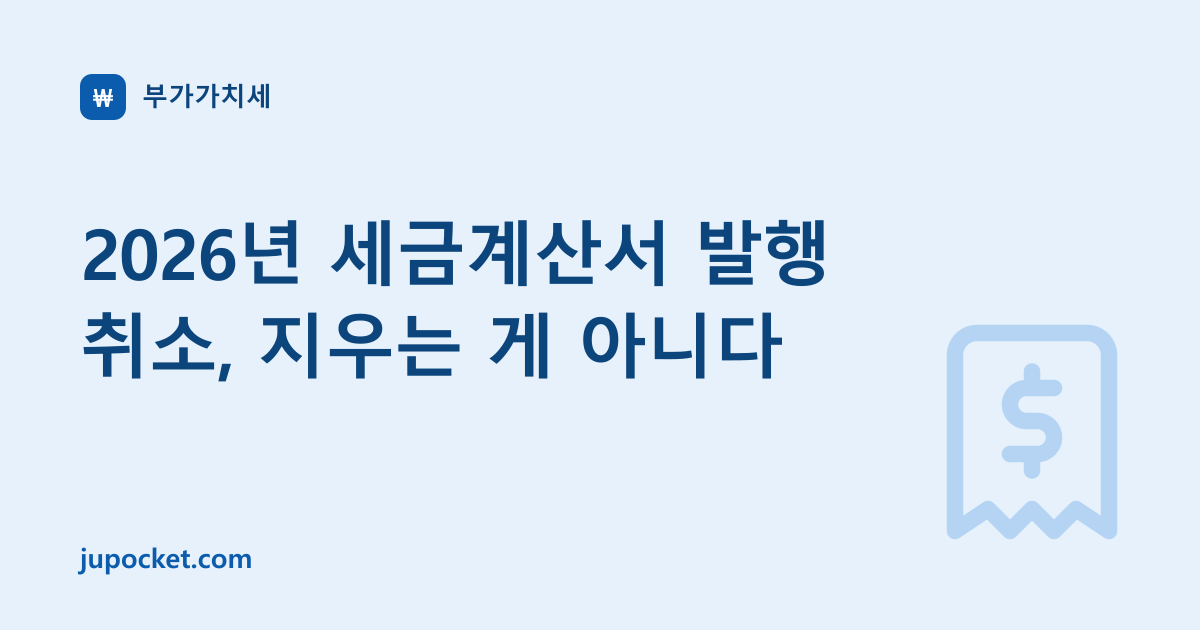
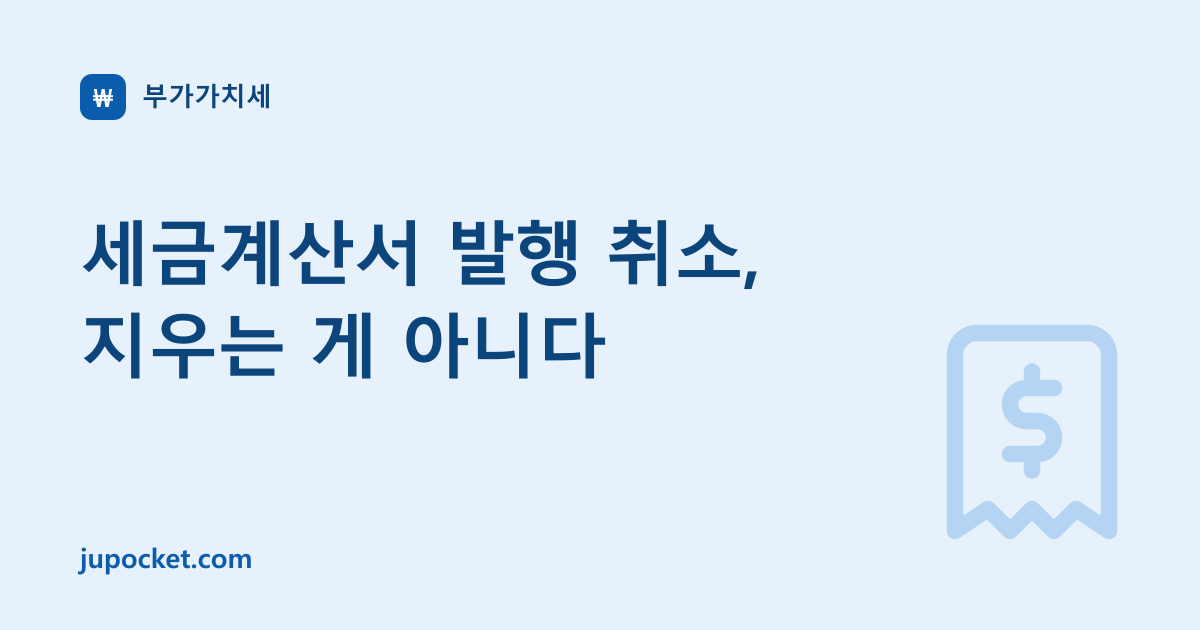
fix: 45~47 에서 조문을 넘어선 문장을 걷어냈다
라이브 뒤 다시 읽으며 내가 보탠 추론을 찾아 지웠다. 기준은 하나다 —
인용한 원문 문장이 그 말을 하고 있는가.

46번

- "해제와 해지를 바꿔 적으면 과세기간이 틀어진다" 가 틀렸다. 둘 다 작성일이
  사유 발생일이라 바뀌는 것은 과세기간이 아니라 금액이다(해제는 전액 음수,
  해지는 차액). 소제목을 금액 차이로 바꾸고, 작성일 이야기를 별도 절로
  뺐다. 예시도 1기 안에서 끝나던 3월→5월 대신 6월 거래를 8월에 해제하는
  것으로 바꿨다 — 그래야 2기로 넘어간다
- "취소 기한이 있는 사유는 하나뿐" → "조문에 기한이 적힌 사유는 하나뿐".
  제70조가 1~3호에 작성일만 정해 둔 것이지 기한이 없다고 읽을 근거는 없다.
  확인 못 했다고 적고 notVerified 에 남겼다
- 착오와 착오 외의 구분을 내가 정의하고 있었다. 조문에 정의가 없어 지웠다
- 금액이 하나도 없는 절차 글이라 year: 2026 을 뗐다

45번

- 시행령 제73조 ③과 ④를 뭉쳐 놨다. ③(소매·음식점·숙박·전세버스)은 요구하면
  발급하고, ④(미용·욕탕, 전세버스 외 여객운송, 입장권)는 감가상각자산이나
  본업 외 역무일 때만이다. 둘로 갈랐다. listNote 가 빼놨다고 한 호를 목록이
  포함하고 있던 것도 맞췄다
- "직접 계산할 필요는 없습니다" 가 과했다. 제73조의2 는 세무서장에게 지운
  의무이고, 통지가 안 오면 제36조가 어떻게 되는지는 조문에 없다

47번

- "면세사업자에게 세금계산서를 달라 해도 안 나오는 것도 같은 이유" 삭제.
  제163조 제6항이 말하는 바가 아니고 부가세법 제32조 제1항을 읽지 않았다
- "소득이 없어도" → 원문은 종합소득산출세액이다
- 수입 재화는 세관장이 발급하는 것이지 안 끊는 경우가 아니다. 절 제목과
  설명을 고쳤다
- 제81조의10 은 소득세법이라 개인사업자 이야기다. 법인은 법인세법 제121조
  계통이고 읽지 않았다고 밝혔다
- "이 글에 없는 것" 이 notVerified 를 그대로 찍어 반말 메모가 존댓말 글에
  섞여 나왔다. 손으로 썼다

Changed region(s): [[0.0617, 0.3317, 0.7092, 0.4524], [0.0617, 0.4825, 0.6475, 0.6032]]

diff --git a/src/lib/__tests__/tax-invoice-cancel.test.ts b/src/lib/__tests__/tax-invoice-cancel.test.ts
@@ -11,9 +11,10 @@ const PAGE = built ? readFileSync(DIST, "utf-8") : "";
 /**
  * 세금계산서 발행 취소(46번) — 시행령 제70조.
  *
- * 이 글이 틀릴 수 있는 자리는 "작성일" 이다. 작성일이 어느 과세기간에
- * 들어가는지를 그것이 정하므로, 2호(해제)와 3호(해지)를 바꿔 적으면
- * 신고가 흔들린다.
+ * 이 글이 틀릴 수 있는 자리는 "작성일" 이다. 1~3호는 사유가 생긴 날을
+ * 적으므로, 처음 세금계산서 작성일로 적으면 과세기간이 달라진다.
+ * 2호(해제)와 3호(해지)를 바꿔 적으면 달라지는 것은 과세기간이 아니라
+ * 금액이다 — 처음에 반대로 썼다가 되돌렸다.
  */
 describe("세금계산서 발행 취소", () => {
   it("사유는 아홉 가지고 전부 작성일이 적혀 있다", () => {
@@ -32,11 +33,23 @@ describe("세금계산서 발행 취소", () => {
     expect(해제.writeDate).not.toBe(해지.writeDate);
   });
 
-  it("기한이 붙은 사유는 제6호 하나뿐이다", () => {
+  it("조문에 기한이 적힌 사유는 제6호 하나뿐이다", () => {
     const withDeadline = C.reasons.filter((x) => "deadline" in x);
     expect(withDeadline.map((x) => x.no)).toEqual([6]);
     expect(withDeadline[0].deadline).toContain("1년");
     expect(withDeadline[0].deadline).toContain("확정신고기한");
+  });
+
+  it("나머지 사유에 '기한이 없다' 고 단정하지 않는다", () => {
+    // 제70조가 작성일만 정해 둔 것이지, 기한이 없다고 읽을 근거는 없다.
+    expect(C.deadlineNote).toContain("확인하지 못했다");
+    expect(C.deadlineNote).not.toContain("기한이 따로 없다");
+  });
+
+  it("1~3호의 작성일은 사유 발생일이고, 그게 금액 차이와 별개다", () => {
+    // 해제와 해지를 바꿔 적으면 달라지는 것은 과세기간이 아니라 금액이다.
+    expect(C.writeDateIsEventDate).toContain("사유가 생긴 날");
+    expect(C.amountDiffers).toContain("과세기간이 아니라 금액");
   });
 
   it("경정을 미리 알고 있으면 막히는 경우가 네 가지다", () => {

diff --git a/src/data/clusters.ts b/src/data/clusters.ts
@@ -92,7 +92,7 @@ export const clusters: Cluster[] = [
       { href: "/guide/vat-prepayment/", title: "부가세 예정고지, 누구에게 얼마가 나오나", kind: "guide", icon: "calendar", year: 2026 },
       { href: "/guide/tax-invoice-date/", title: "세금계산서 발행일자, 다음 달 10일의 조건", kind: "guide", icon: "receipt", year: 2026 },
       { href: "/guide/simplified-tax-invoice/", title: "간이과세자 세금계산서 발행, 4,800만원이 두 번", kind: "guide", icon: "receipt", year: 2026 },
-      { href: "/guide/tax-invoice-cancel/", title: "세금계산서 발행 취소, 지우는 게 아니다", kind: "guide", icon: "receipt", year: 2026 },
+      { href: "/guide/tax-invoice-cancel/", title: "세금계산서 발행 취소, 지우는 게 아니다", kind: "guide", icon: "receipt" },
       { href: "/guide/tax-invoice-vs-statement/", title: "세금계산서와 계산서의 차이, 법이 다르다", kind: "guide", icon: "scale", year: 2026 },
     ],
   },

diff --git a/docs/keyword-research.md b/docs/keyword-research.md
@@ -1564,8 +1564,8 @@ v16 의 볼륨 사다리 1단계로 세금계산서 축을 열었다. 머리말
 
 - **시행령 제73조의2** — 세무서장이 적용기간 시작 **20일 전까지 통지**하고
   사업자등록증을 정정해 과세기간 개시 당일까지 발급해야 한다. "간이과세자
-  세금계산서 발행 기준" 검색의 실제 답이 이것이다. 본인이 매출을 계산해
-  판단할 일이 아니다
+  세금계산서 발행 기준" 검색이 실제로 닿는 자리다. 다만 이건 세무서에
+  지운 의무이고, 통지가 오지 않으면 제36조가 어떻게 되는지는 조문에 없다
 - **시행령 제73조 제1항** — 영수증 발급 업종 14호(소매업·음식점업·숙박업…)
 - **시행령 제70조** — 수정세금계산서 9가지 사유와 사유별 작성일
 
